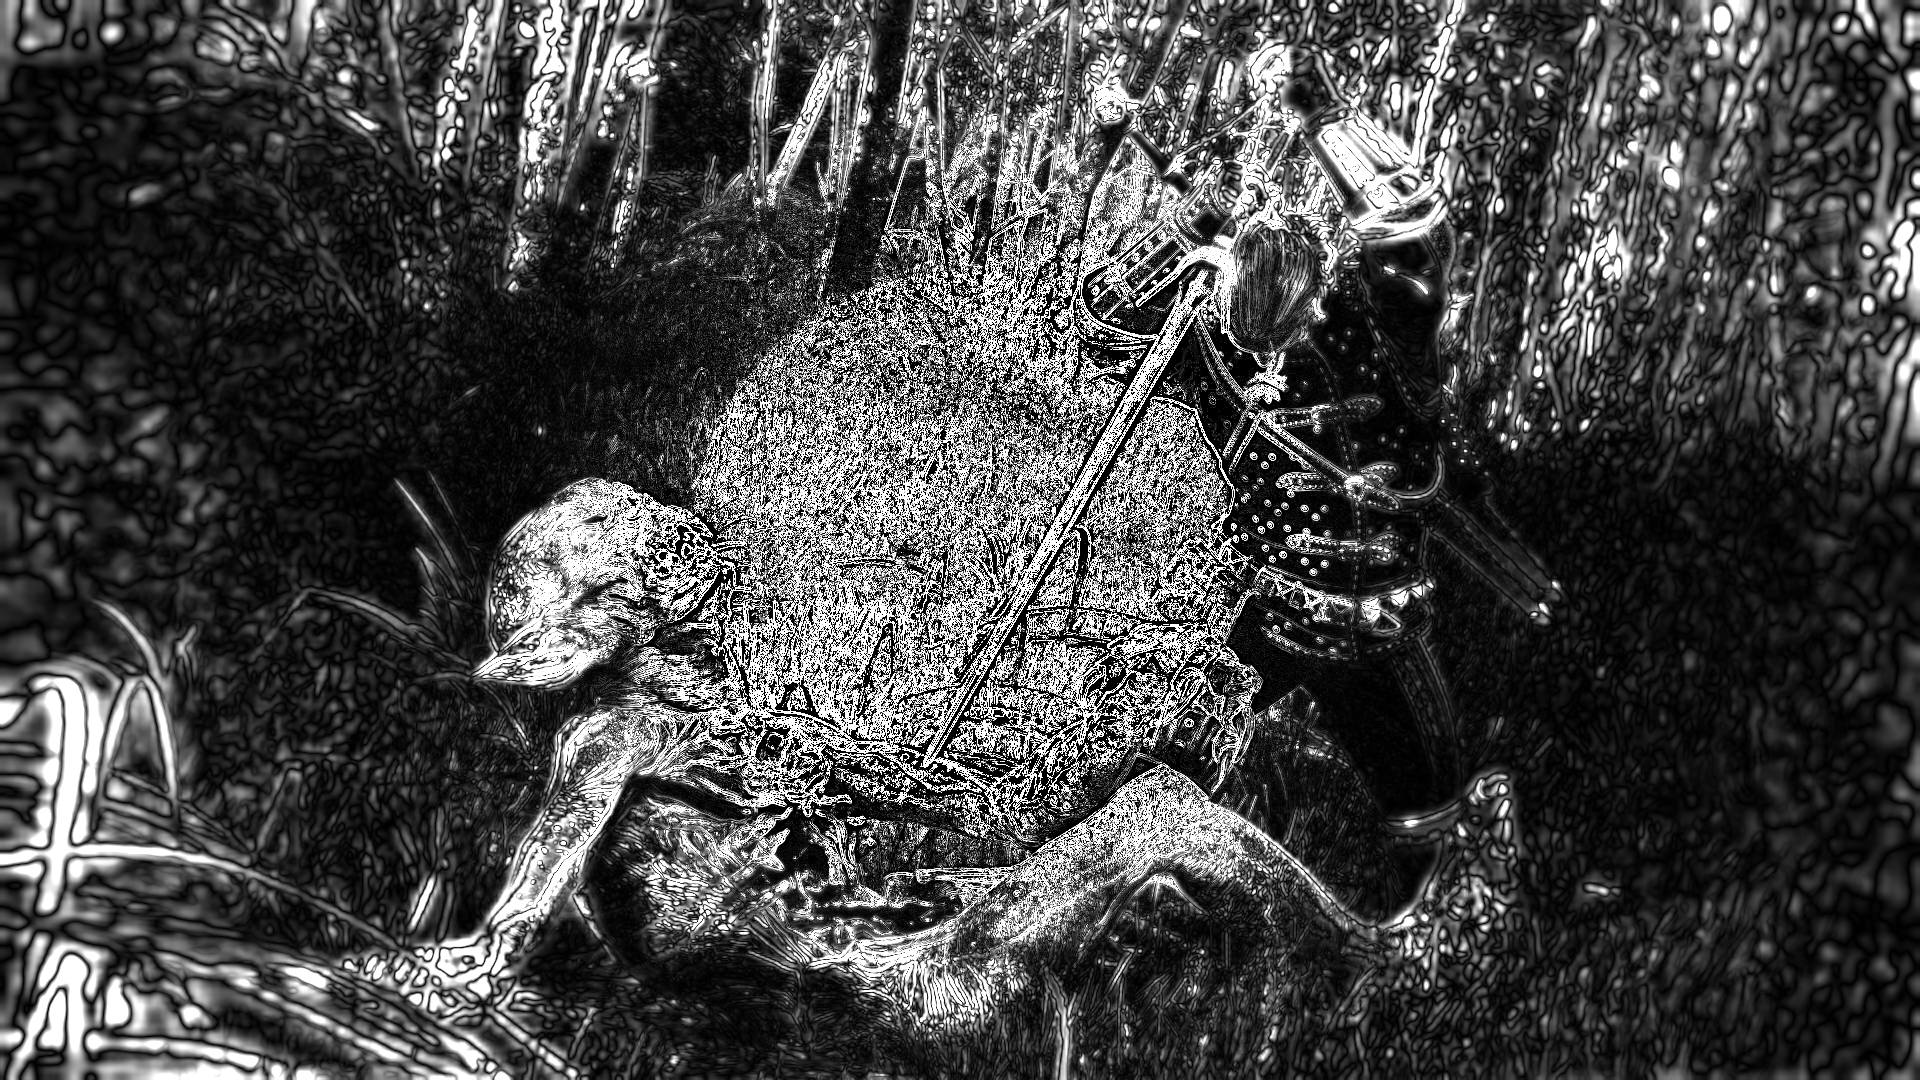
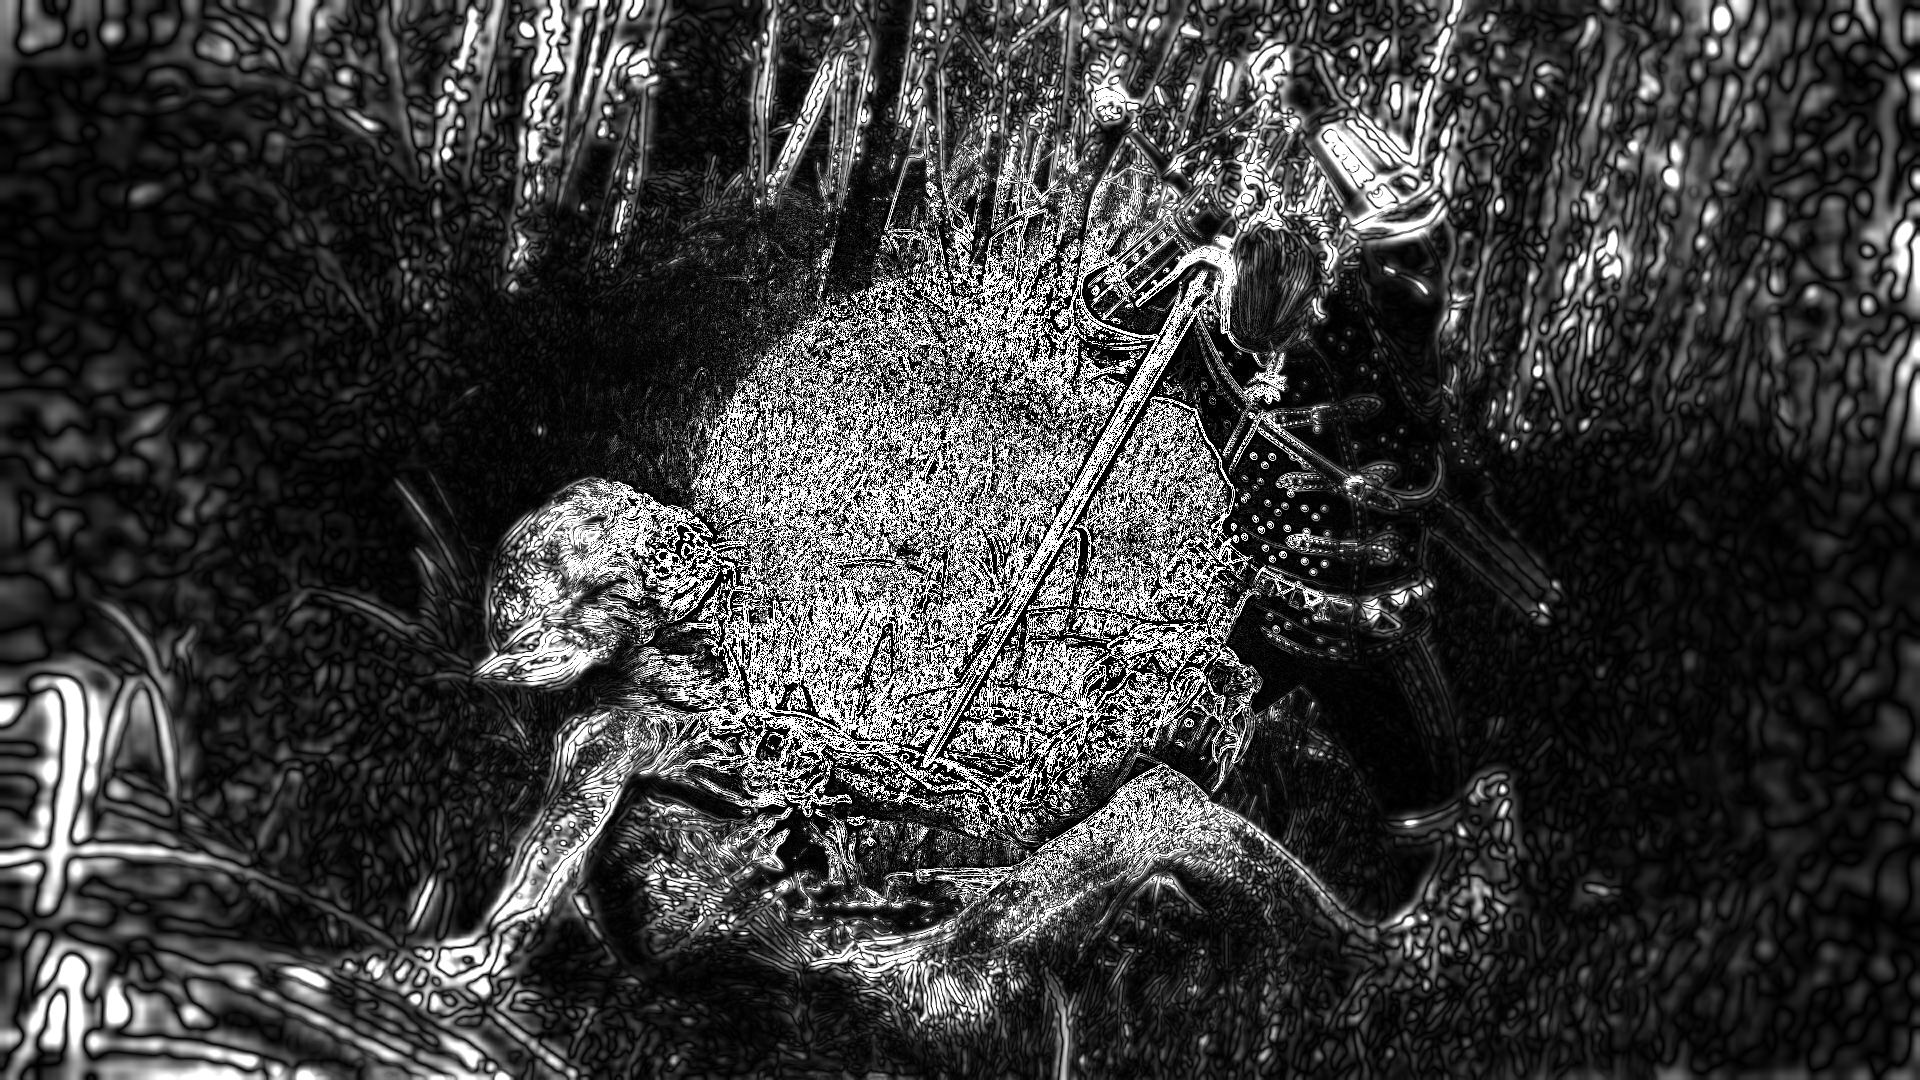
Convolve gabor kernels over poisson disc sampled regions, following amplitude and content orientation

diff --git a/src/foveation.py b/src/foveation.py
@@ -18,6 +18,7 @@ from src.gabor_synthesis import (
 from src.bluenoise import (
 	bandlimited_blue_noise,
 	compute_orientation_field,
+	poisson_gabor_noise
 )
 
 
@@ -92,12 +93,12 @@ def generate_gabor_enhanced_foveated_image(
 	foveated_image = foveate_image(image, sigma_map)
 
 	# pyramids
-	gaussian_pyramid = make_gaussian_pyramid(image, levels)
-	laplacian_pyramid = make_laplacian_pyramid(image, levels, gaussian_pyramid = gaussian_pyramid)
+	gaussian_pyramid = make_gaussian_pyramid(foveated_image, levels)
+	laplacian_pyramid = make_laplacian_pyramid(foveated_image, levels, gaussian_pyramid = gaussian_pyramid)
 
 	# frequency bounds & orientation
 	F_L, F_H = freq_bounds_cpp(sigma_map)  # F_H is scalar 0.5 inside if you kept that default
-	theta = estimate_orientation(image)
+	theta = estimate_orientation(foveated_image)
 
 	# amplitude from Laplacian bands
 	l_a = choose_laplacian_level_from_sigma(sigma_map)
@@ -124,8 +125,8 @@ def generate_gabor_enhanced_foveated_image(
 
 
 def display_foveated_results(final_enhanced_image, foveated_image, sigma_map):
-	def to_rgb(img):
-		return cv2.cvtColor(img, cv2.COLOR_BGR2RGB) if (img.ndim == 3 and img.shape[2] == 3) else img
+	def to_rgb(image):
+		return cv2.cvtColor(image, cv2.COLOR_BGR2RGB) if (image.ndim == 3 and image.shape[2] == 3) else image
 
 	fig, axes = plt.subplots(1, 3, figsize=(16, 5))
 
@@ -162,20 +163,20 @@ def generate_blue_noise_enhanced_image(
 	rho_min = 1.0,
 	rho_max = 3.0
 ):
-	img = load_image(path, grayscale = False, as_float = True)
-	h, w = img.shape[:2]
+	image = load_image(path, grayscale = False, as_float = True)
+	h, w = image.shape[:2]
 	if gaze_xy is None:
 		gaze_xy = (w // 2, h // 2)
 
 	ppd = pixels_per_degree(dpi, viewing_distance_m)
 	sigma_map = radial_sigma_map(h, w, gaze_xy, ppd, blur_rate_arcmin_per_degree)
-	foveated_image = foveate_image(img, sigma_map)
+	foveated_image = foveate_image(image, sigma_map)
 	theta_map, coherency_map = compute_orientation_field(foveated_image, sigma_smooth = 1.0)
 	wgate = smoothstep(sigma_map, 0.5, 2.0)
 	noise_bn = bandlimited_blue_noise(h, w, sigma_map, levels = num_levels, r_px = r_px, seed = seed, sigma_blob = sigma_blob, theta_map = theta_map, coherency_map = coherency_map, rho_min = rho_min, rho_max = rho_max)
 
-	G = make_gaussian_pyramid(img, num_levels)
-	L = make_laplacian_pyramid(img, num_levels, gaussian_pyramid = G)
+	G = make_gaussian_pyramid(foveated_image, num_levels)
+	L = make_laplacian_pyramid(foveated_image, num_levels, gaussian_pyramid = G)
 	l_a = choose_laplacian_level_from_sigma(sigma_map)
 
 	amp = amplitude_from_laplacian(L, l_a, s_k = s_k)
@@ -190,4 +191,59 @@ def generate_blue_noise_enhanced_image(
 	
 	final_enhanced_image = np.clip(ce * scale, 0.0, 1.0)
 	
+	return final_enhanced_image, foveated_image, sigma_map, noise, noise_bn, amp
+
+
+
+def synthesize_poisson_gabor(
+	path: str,
+	num_levels = 5,
+	gaze_xy = None,
+	dpi = 110.0,
+	viewing_distance_m = 0.71,
+	blur_rate_arcmin_per_degree = 0.34,
+	r_px = 12,
+	seed = 0,
+	sigma_env_ratio = 0.5,
+	fe = 0.2,
+	s_k = 20.0,
+):
+	image = load_image(path, grayscale = False, as_float = True)
+	h, w = image.shape[:2]
+	if gaze_xy is None:
+		gaze_xy = (w // 2, h // 2)
+
+	ppd = pixels_per_degree(dpi, viewing_distance_m)
+	sigma_map = radial_sigma_map(h, w, gaze_xy, ppd, blur_rate_arcmin_per_degree)
+	wgate = smoothstep(sigma_map, 0.5, 2.0)
+	foveated_image = foveate_image(image, sigma_map)
+
+	theta_map = estimate_orientation(foveated_image)
+
+	# freq bounds per pixel (cycles/pixel)
+	F_L, F_H = freq_bounds_cpp(sigma_map)
+
+	# oriented Gabor field at Poisson points (already band-biased by freq choice)
+	noise_bn = poisson_gabor_noise(h, w, F_L, F_H, theta_map, r_px = r_px, seed = seed, sigma = sigma_env_ratio)
+
+	# amplitude from Laplacian pyramid of the image
+	G = make_gaussian_pyramid(foveated_image, num_levels)
+	L = make_laplacian_pyramid(foveated_image, num_levels, gaussian_pyramid = G)
+	l_a = choose_laplacian_level_from_sigma(sigma_map)
+	amp = amplitude_from_laplacian(L, l_a, s_k = s_k)
+
+	# gate and scale
+	noise = noise_bn * amp * wgate
+
+	# contrast enhance + luminance remap with bounded multiplicative scale
+	ce_global = contrast_enhance(foveated_image, fe = fe)
+	ce = (1.0 - wgate)[..., None] * foveated_image + wgate[..., None] * ce_global
+
+	Y  = 0.2126 * ce[..., 2] + 0.7152 * ce[..., 1] + 0.0722 * ce[..., 0]
+	Yn = np.clip(Y + noise, 0.0, 1.0)
+
+	eps = 1e-6
+	scale = ((Yn + eps) / (Y + eps))[..., None]
+	final_enhanced_image = np.clip(ce * scale, 0.0, 1.0)
+
 	return final_enhanced_image, foveated_image, sigma_map, noise, noise_bn, amp

diff --git a/src/bluenoise.py b/src/bluenoise.py
@@ -3,7 +3,7 @@ import numpy as np
 import cv2
 from scipy.stats import qmc
 
-from src.gabor_synthesis import	choose_laplacian_level_from_sigma
+from src.gabor_synthesis import	choose_laplacian_level_from_sigma, gabor_kernel
 from src.pyramids import make_gaussian_pyramid, make_laplacian_pyramid
 
 
@@ -193,3 +193,47 @@ def smoothstep(x, lo, hi):
 
 
 
+def poisson_gabor_noise(height, width, F_L, F_H, theta_map, r_px = 12, seed = 0, sigma = 0.5):
+	points = poisson_disk_points(height, width, r_px, seed)
+	field = np.zeros((height, width), np.float32)
+	rng = np.random.default_rng(seed)
+
+	for (x, y) in points:
+		# Clamp points to be within image range
+		yi = int(np.clip(x, 0, height - 1))
+		xi = int(np.clip(y, 0, width - 1))
+
+		th = float(theta_map[yi, xi]) # get local orientation from the theta map, to align the gabor impulse
+		fl = float(F_L[yi, xi]) if isinstance(F_L, np.ndarray) else float(F_L) # lower bound frequency (cpp)
+		fh = float(F_H[yi, xi]) if isinstance(F_H, np.ndarray) else float(F_H) # upper bound frequency (cpp)
+
+		if not (fl < fh):
+			continue
+
+		# log-uniform sample in [fl, fh]
+		fcpp = float(np.exp(rng.uniform(np.log(fl), np.log(fh))))
+		lam = 1.0 / max(1e-6, fcpp) # wavelength, avoid div by 0
+		sigma_env = float(sigma * lam) # sigma in pixels; 0.5 means 2sigma spans 1 each side?
+		psi = float(rng.uniform(0.0, 2.0 * np.pi)) # random phase, avoids aliasing and patterning
+
+		gabor = gabor_kernel(fcpp, th, sigma_pix_env = sigma_env, gamma = 1.0, psi = psi).astype(np.float32) # gabor kernel
+		gabor -= gabor.mean()
+		n = np.sqrt((gabor * gabor).sum()) + 1e-12
+		gabor /= n
+
+		gabor_height, gabor_width = gabor.shape
+		gabor_halfheight, gabor_halfwidth = gabor_height // 2, gabor_width // 2
+		y0, y1 = max(0, yi - gabor_halfheight), min(height, yi + gabor_halfheight + 1)
+		x0, x1 = max(0, xi - gabor_halfwidth), min(width,  xi + gabor_halfwidth + 1)
+		gabor_kernel_y0, gabor_kernel_y1 = gabor_halfheight - (yi - y0), gabor_halfheight + (y1 - yi) - 1
+		gabor_kernel_x0, gabor_kernel_x1 = gabor_halfwidth - (xi - x0), gabor_halfwidth + (x1 - xi) - 1
+
+		kernel_vals = gabor[gabor_kernel_y0:gabor_kernel_y1 + 1, gabor_kernel_x0:gabor_kernel_x1 + 1]
+		kernel_vals = kernel_vals - kernel_vals.mean()
+		kernel_vals /= (np.sqrt((kernel_vals * kernel_vals).sum()) + 1e-12)
+
+		field[y0:y1, x0:x1] += kernel_vals
+
+	field -= field.mean()
+	field /= (field.std() + 1e-6)
+	return field

diff --git a/src/gabor_synthesis.py b/src/gabor_synthesis.py
@@ -69,11 +69,11 @@ def L_pyr_list_to_gray(level_image, H, W, level_idx):
 
 
 
-def gabor_kernel(freq_cpp, theta, sigma_pix_env=8.0, gamma=1.0):
+def gabor_kernel(freq_cpp, theta, sigma_pix_env = 8.0, gamma = 1.0, psi = 0.0):
 	f = max(1e-4, float(freq_cpp))
 	lam = 1.0 / f
-	ksize = int(max(7, int(6*sigma_pix_env)|1))
-	return cv2.getGaborKernel((ksize, ksize), sigma_pix_env, float(theta), lam, gamma, psi=0, ktype=cv2.CV_32F)
+	ksize = int(max(7, int(6 * sigma_pix_env) | 1))
+	return cv2.getGaborKernel((ksize, ksize), sigma_pix_env, float(theta), lam, gamma, psi = float(psi), ktype = cv2.CV_32F)
 
 def synthesize_gabor_noise(height, width, F_L, F_H, amp, theta, cells=32, impulses_per_cell=12, seed=1337):
 	rng = np.random.default_rng(seed)
